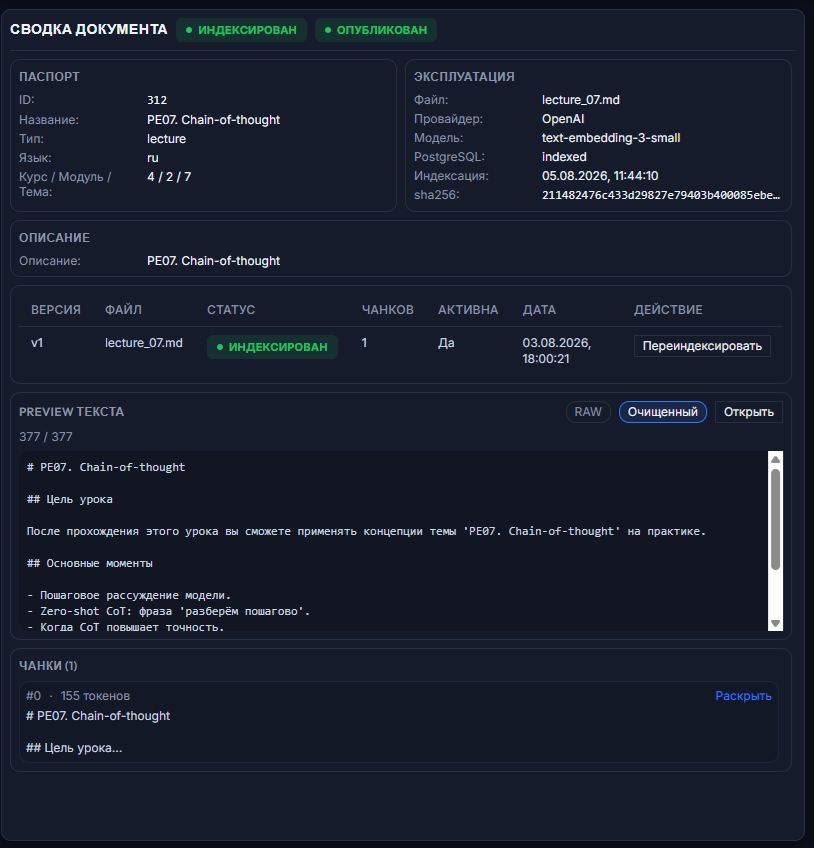
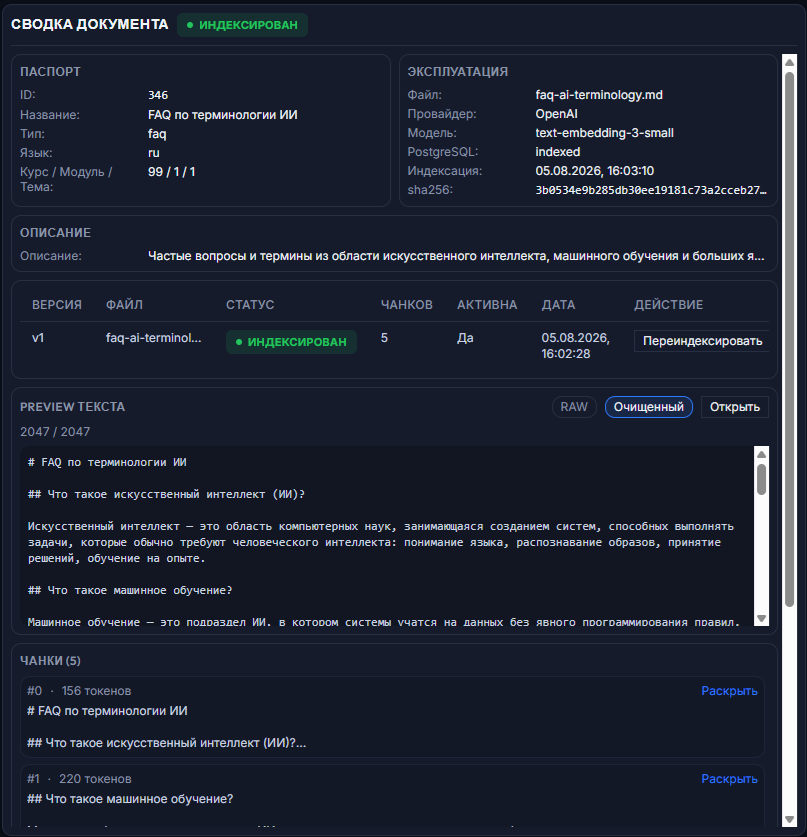
docs(ai-curator): fix E2E_SCENARIOS facts and add mixed screenshot
- Correct study-question sources to CC07/PE07/ДЗ: PE07.
- Replace mixed-question placeholder with real question: 'Что мне повторить
  перед заданием CC01?' and add AIC_web_chat_mixed.png.
- Fix KB upload scenario to 'FAQ по терминологии ИИ' / faq.
- Fix quality-control path to 'Отчёты → Бизнес-отчёты'.
- Add emoji headers and styled document links.
- Register new screenshot in MEDIA_INDEX.md and update AIC_admin_kb_detail.png.

diff --git a/docs/E2E_SCENARIOS.md b/docs/E2E_SCENARIOS.md
@@ -1,11 +1,11 @@
-# AI Curator — сквозные бизнес-сценарии
+# 🎬 AI Curator — сквозные бизнес-сценарии
 
 **Проект:** ai-curator  
 **Дата:** 2026-08-05
 
 ---
 
-## 1. Организационный вопрос
+## 🏫 1. Организационный вопрос
 
 **Участники:** студент, AI Curator, Moodle LMS.
 
@@ -35,7 +35,7 @@
 
 ---
 
-## 2. Учебный вопрос
+## 📖 2. Учебный вопрос
 
 **Участники:** студент, AI Curator, База знаний.
 
@@ -44,11 +44,11 @@
 **Шаги:**
 
 1. Студент выбирает уровень сложности `Базовый`.
-2. Задаёт вопрос: `Что такое промпт?`
+2. Задаёт вопрос: `Что такое chain-of-thought?`
 3. Backend определяет курс, модуль, тему.
 4. Выполняется retrieval по Базе знаний.
 5. Backend формирует RAG-контекст и вызывает LLM.
-6. Ответ содержит объяснение и карточки источников: `PE01. Что такое промпт`, `CC05. Структура эффективного промпта`, `ДЗ: PE01. Что такое промпт`.
+6. Ответ содержит объяснение и карточки источников: `CC07. Chain-of-thought и разбор сложных задач`, `PE07. Chain-of-thought`, `ДЗ: PE07. Chain-of-thought`.
 
 **Ожидаемый результат:** содержательный ответ с источниками `База знаний`.
 
@@ -64,31 +64,32 @@
 
 ---
 
-## 3. Смешанный вопрос
+## 🔀 3. Смешанный вопрос
 
 **Участники:** студент, AI Curator, LMS, База знаний.
 
-**Цель:** получить персональную рекомендацию перед заданием.
+**Цель:** получить ответ, который объединяет данные LMS и учебные материалы.
 
 **Шаги:**
 
-1. Студент спрашивает: `Что мне повторить перед заданием PE07?`
-2. Backend получает из LMS: задание, дедлайн, прогресс студента.
-3. Backend получает из База знаний: связанные лекции и методички.
-4. Backend объединяет контекст и формирует персональную рекомендацию.
-5. Студент видит ответ с источниками LMS + База знаний.
+1. Студент спрашивает: `Что мне повторить перед заданием CC01?`
+2. Backend классифицирует запрос как `mixed` — вопрос содержит и организационный признак (`задание`), и учебный (`что повторить`).
+3. Backend получает из LMS: задание CC01, дедлайн, прогресс студента.
+4. Backend получает из База знаний: связанные лекции и инструкции.
+5. Backend объединяет контекст и формирует персональную рекомендацию.
+6. Студент видит ответ с источниками LMS + База знаний.
 
 **Ожидаемый результат:** персональная рекомендация с двумя типами источников.
 
 **Скриншоты:**
 
-![Карточки источников для смешанного ответа](screenshots/AIC_web_sources_expanded.png)
+![Смешанный вопрос: что повторить перед заданием CC01](screenshots/AIC_web_chat_mixed.png)
 
 *Смешанный ответ: источники из LMS и База знаний одновременно.*
 
 ---
 
-## 4. Управление Базой знаний
+## 🧠 4. Управление Базой знаний
 
 **Участники:** методист, Консоль администратора AI Curator.
 
@@ -99,7 +100,7 @@
 1. Методист открывает Консоль администратора.
 2. Переходит в **База знаний → Документы**.
 3. Нажимает **Загрузить файл**.
-4. Заполняет название `PE08. Zero-shot и few-shot`, тип `lecture`, курс/модуль/тему.
+4. Заполняет название `FAQ по терминологии ИИ`, тип `faq`, курс/модуль/тему.
 5. Загружает файл и сохраняет документ.
 6. Выбирает документ и нажимает **Переиндексировать**.
 7. После успешной индексации включает публикацию.
@@ -118,7 +119,7 @@
 
 ---
 
-## 5. Контроль качества
+## 📊 5. Контроль качества
 
 **Участники:** администратор AI Curator, Консоль администратора.
 
@@ -126,7 +127,7 @@
 
 **Шаги:**
 
-1. Администратор открывает **Reports → Quality Reports**.
+1. Администратор открывает **Отчёты → Бизнес-отчёты**.
 2. Видит темы с низким покрытием KB.
 3. Открывает **База знаний** и добавляет недостающий материал.
 4. Переиндексирует и публикует документ.
@@ -136,7 +137,7 @@
 
 **Скриншоты:**
 
-![Quality Reports: покрытие Базы знаний и вопросы без ответа](screenshots/AIC_admin_reports.png)
+![Бизнес-отчёты: покрытие Базы знаний и вопросы без ответа](screenshots/AIC_admin_reports.png)
 
 *Администратор видит метрики качества и гэпы контента.*
 
@@ -146,7 +147,7 @@
 
 ---
 
-## 6. Настройка учебного процесса в LMS
+## 🏫 6. Настройка учебного процесса в LMS
 
 **Участники:** администратор LMS, преподаватель, Moodle.
 
@@ -182,9 +183,9 @@
 
 ---
 
-## Связанные документы
+## 📚 Связанные документы
 
-- [`docs/SYSTEM_DEMO.md`](SYSTEM_DEMO.md) — скриншоты и live demo.
-- [`docs/USER_GUIDE.md`](USER_GUIDE.md) — руководство студента.
-- [`docs/ADMIN_GUIDE.md`](ADMIN_GUIDE.md) — руководство администратора.
-- [`docs/CURATOR_GUIDE.md`](CURATOR_GUIDE.md) — руководство методиста.
+- [🎬 `docs/SYSTEM_DEMO.md`](SYSTEM_DEMO.md) — скриншоты и live demo.
+- [📖 `docs/USER_GUIDE.md`](USER_GUIDE.md) — руководство студента.
+- [🎛 `docs/ADMIN_GUIDE.md`](ADMIN_GUIDE.md) — руководство администратора.
+- [🧠 `docs/CURATOR_GUIDE.md`](CURATOR_GUIDE.md) — руководство методиста.

diff --git a/docs/screenshots/MEDIA_INDEX.md b/docs/screenshots/MEDIA_INDEX.md
@@ -29,6 +29,7 @@
 | IMG-003 | `AIC_web_sources_expanded.png` | web | Ответ на учебный вопрос с новыми карточками источников KB и LMS | SYSTEM_DEMO, USER_GUIDE, E2E_SCENARIOS |
 | IMG-004 | `AIC_web_difficulty_toggle.png` | web | Учебный диалог с активным переключателем сложности `Базовый / Углублённый`. Вопрос «Что такое промпт?», ответ с карточками источников KB | USER_GUIDE, SYSTEM_DEMO |
 | IMG-005 | `AIC_web_demo_badge.png` | web | Demo-режим: бейдж с оставшимися запросами, таймер сессии, источники KB | SYSTEM_DEMO, USER_GUIDE |
+| IMG-005a | `AIC_web_chat_mixed.png` | web | **Смешанный вопрос**: диалог с ответом, источники из LMS и База знаний одновременно. Вопрос «Что мне повторить перед заданием CC01?», намерение `mixed` | E2E_SCENARIOS |
 | IMG-006 | `AIC_web_no_answer.png` | web | Сценарий «вопрос без данных»: запрос пароля Moodle и fallback-ответ | USER_GUIDE, FAQ |
 | IMG-010 | `AIC_admin_login.png` | admin | Экран входа с Bearer-токеном и кнопка demo-режима | ADMIN_GUIDE, SYSTEM_DEMO |
 | IMG-011 | `AIC_admin_dashboard.png` | admin | Панель состояния: health сервисов, KPI за 24ч, активность по интентам, состояние KB | README, SYSTEM_DEMO, ADMIN_GUIDE |
